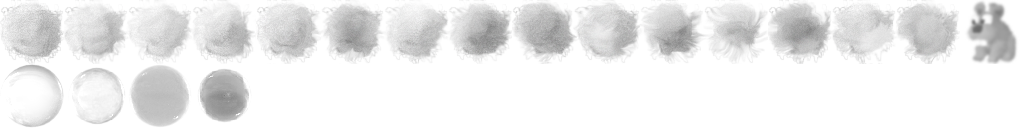
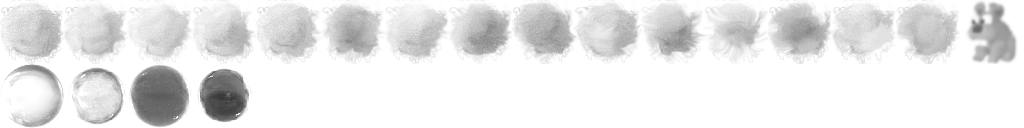
The Geyser pump can now manually fill canisters of gas

Changed region(s): [[0.0, 0.5, 0.25, 1.0]]

diff --git a/Clonkworks.c4d/Environment.c4d/Geysers.c4d/Geyser Pump.c4d/Script.c b/Clonkworks.c4d/Environment.c4d/Geysers.c4d/Geyser Pump.c4d/Script.c
@@ -265,3 +265,15 @@ public func IsNaturalGasGeyser(){
   if(GetCon() < 100) return(0);
   if(Extract == GS_2 && Amount > 0) return(1);
 }
+
+public func ControlThrow(pClonk){
+  [$Fill$|Image=GCAN]
+  var Canister = Contents(0,pClonk);
+  if(GetID(Canister) != GCAN || GetType(Extract) != C4V_C4ID || Amount == 0) return(0);
+  if(!GetCanisterType(Extract)) return(0);
+  var AmountToGive = BoundBy(Amount,0,50);
+  Amount -= AmountToGive;
+  Canister->TransformCanister(AmountToGive,Extract);
+  Sound("Fuse");
+  return(1);
+}

diff --git a/Clonkworks.c4d/Items.c4d/Containers.c4d/Canister.c4d/Script.c b/Clonkworks.c4d/Items.c4d/Containers.c4d/Canister.c4d/Script.c
@@ -82,3 +82,13 @@ public func IncinerationEX(){
     if(iFillType) CastObjects(iFillType,iFillLevel);
     Explode(10);
 }
+
+//the code for this sucks, so i made a solution, excuse me for my horrid code
+public func TransformCanister(iLevel,FillType){
+  var Canist=GetCanisterType(FillType);
+  if(!Canist) return(0);
+  iFillLevel = iLevel;
+  iFillType = FillType;
+  ChangeDef(Canist);
+  return(1);
+}
